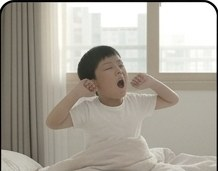
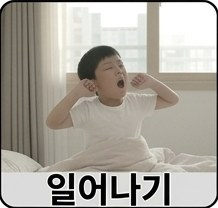
Restore full daily routine AAC cards

diff --git a/index.html b/index.html
@@ -12,13 +12,13 @@
   <meta name="apple-mobile-web-app-title" content="재민 AAC" />
   <meta name="application-name" content="재민 AAC" />
   <meta name="theme-color" content="#3b82f6" />
-  <link rel="manifest" href="./manifest.webmanifest?v=373" />
+  <link rel="manifest" href="./manifest.webmanifest?v=374" />
   <link rel="apple-touch-icon" sizes="180x180" href="./images/app_icons/app-icon-180.png?v=347" />
   <link rel="preconnect" href="https://www.youtube.com" />
   <link rel="preconnect" href="https://img.youtube.com" />
   <link rel="preconnect" href="https://i.ytimg.com" />
   <title>AAC 앱</title>
-  <link rel="stylesheet" href="./css/app.css?v=373" />
+  <link rel="stylesheet" href="./css/app.css?v=374" />
   <link rel="stylesheet" href="./css/features/study-puzzle.css?v=277" />
   <link rel="stylesheet" href="./css/features/recycling-game.css?v=339" />
   <link rel="stylesheet" href="./css/features/mart-cart-game.css?v=301" />
@@ -65,7 +65,7 @@
   </main>
 
   <script src="./js/data/study-data.js?v=362"></script>
-  <script src="./js/data/app-data.js?v=373"></script>
+  <script src="./js/data/app-data.js?v=374"></script>
   <script src="./js/core/pager.js?v=294"></script>
   <script src="./js/features/schedule.js?v=339"></script>
   <script src="./js/features/study-puzzle.js?v=277"></script>
@@ -73,7 +73,7 @@
   <script src="./js/features/mart-cart-game.js?v=310"></script>
   <script src="./js/features/traffic-light-game.js?v=307"></script>
   <script src="./js/features/face-parts-game.js?v=329"></script>
-  <script src="./js/main.js?v=373"></script>
+  <script src="./js/main.js?v=374"></script>
   <script>
     if ('serviceWorker' in navigator) {
       let refreshing = false;
@@ -84,7 +84,7 @@
       });
       window.addEventListener('load', () => {
         /* sw.js에도 v를 붙이지 않으면 Safari가 옛 서비스 워커를 붙잡는 경우가 있음 */
-        navigator.serviceWorker.register('./sw.js?v=373', { updateViaCache: 'none' })
+        navigator.serviceWorker.register('./sw.js?v=374', { updateViaCache: 'none' })
           .then(function (reg) {
             if (reg.waiting) reg.waiting.postMessage({ type: 'SKIP_WAITING' });
             reg.addEventListener('updatefound', function () {

diff --git a/js/main.js b/js/main.js
@@ -3323,7 +3323,7 @@ function renderButtons(items, layout) {
       }
       const label = document.createElement("div");
       label.className = "tile-label"; label.textContent = item.label;
-      btn.appendChild(label);
+      if (!item.embeddedLabel) btn.appendChild(label);
       if (currentKey() === "weatherHome" && item.videoQuery) {
         btn.classList.add("tile--has-video");
         const videoBtn = document.createElement("span");

diff --git a/js/data/app-data.js b/js/data/app-data.js
@@ -10,7 +10,8 @@ function photoAacItem(prefix, index, label) {
     label,
     speech: label,
     image: `./images/photo_aac/${prefix}_${String(index).padStart(2, "0")}.jpg`,
-    imageFit: "contain"
+    imageFit: "contain",
+    embeddedLabel: prefix === "routine"
   };
 }
 

diff --git a/sw.js b/sw.js
@@ -4,7 +4,7 @@
  * On first visit, pre-caches all images so subsequent loads are instant.
  */
 
-const CACHE_VERSION = 'v373';
+const CACHE_VERSION = 'v374';
 const CACHE_NAME = `jaemin-aac-${CACHE_VERSION}`;
 
 self.addEventListener('message', (event) => {

diff --git a/scripts/extract_photo_aac.py b/scripts/extract_photo_aac.py
@@ -83,7 +83,9 @@ SHEETS = [
         ],
         "boxes": [
             (x, y, x + 218, y + h)
-            for y, h in ((4, 171), (218, 157), (413, 152), (607, 155), (806, 156), (1005, 157))
+            # Sheet 5 places its labels over the photographs. Keep each complete
+            # source card instead of cutting off the lower part of the photo.
+            for y, h in ((4, 208), (218, 188), (413, 187), (607, 191), (806, 191), (1005, 195))
             for x in (3, 227, 451, 675)
         ],
     },
